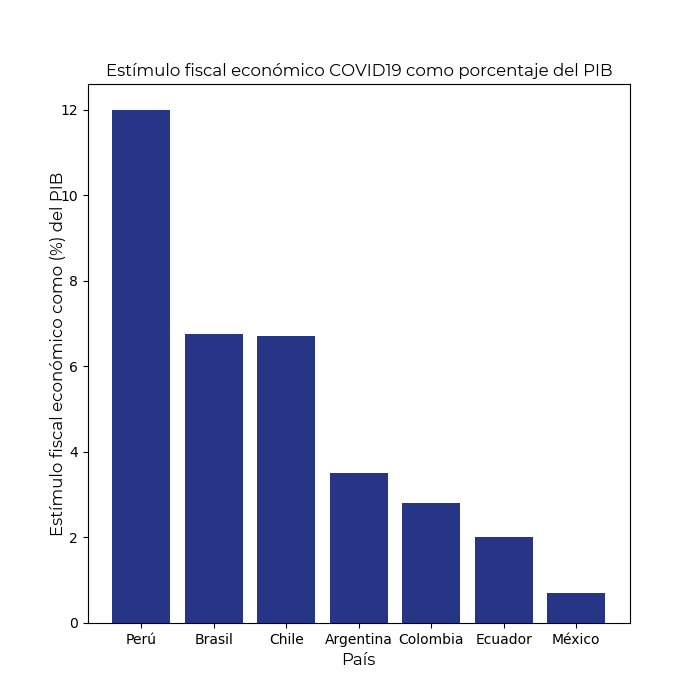
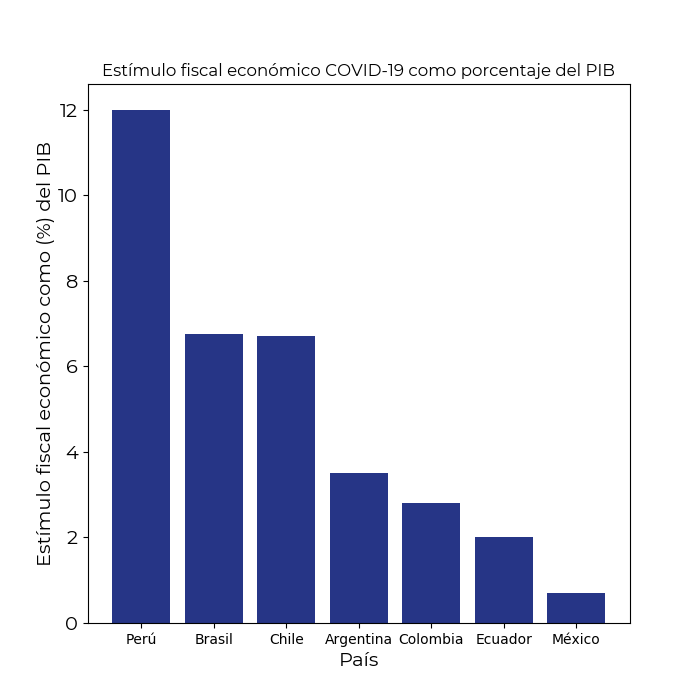
ok

diff --git a/herramientas/FiscalStimulusCOVID_to_GDP/barplotFiscalStimulus_to_GDP_LatAm.py b/herramientas/FiscalStimulusCOVID_to_GDP/barplotFiscalStimulus_to_GDP_LatAm.py
@@ -3,6 +3,8 @@ import matplotlib.pyplot as plt
 import pandas
 import os
 from matplotlib import font_manager as fm, rcParams
+
+
 fig = plt.figure(figsize=(7,7))
 ### Post colaboración Olivia Bordeu y Nacho Oliva.
 df = pandas.read_csv("asgdpPunto.csv",sep=";",encoding= 'unicode_escape')
@@ -29,17 +31,14 @@ plt.bar(y_pos, height,color=color_blue)
 
 # Create names on the x-axis
 plt.xticks(y_pos, bars)
-
-
+plt.yticks(fontproperties=prop,fontsize=14)
 
 plt.title('This is a special font: {}'.format(fname), fontproperties=prop)
 
-plt.ylabel('Estímulo fiscal económico como (%) del PIB', fontproperties=prop, fontsize=12, labelpad= -4)
-plt.xlabel('País', fontproperties=prop, fontsize=12)
+plt.ylabel('Estímulo fiscal económico como (%) del PIB', fontproperties=prop, fontsize=14, labelpad= 2)
+plt.xlabel('País', fontproperties=prop, fontsize=14)
 
-plt.title(r"Estímulo fiscal económico COVID19 como porcentaje del PIB",fontproperties=prop, fontsize=12)
- 
-
+plt.title(r"Estímulo fiscal económico COVID-19 como porcentaje del PIB",fontproperties=prop, fontsize=12)
 
 plt.savefig("outputFiscalStimulus.png")
 # Show graphic
@@ -54,12 +53,12 @@ height= GrossDebt
 plt.bar(y_pos, height,color=color_blue)
 # Create names on the x-axis
 plt.xticks(y_pos, bars)
-
+plt.yticks(fontproperties=prop,fontsize=14)
 
 plt.title('This is a special font: {}'.format(fname), fontproperties=prop)
 
-plt.ylabel('Deuda Bruta País como (%) del PIB', fontproperties=prop, fontsize=12, labelpad= -4)
-plt.xlabel('País', fontproperties=prop, fontsize=12)
+plt.ylabel('Deuda Bruta País como (%) del PIB', fontproperties=prop, fontsize=14, labelpad= 5)
+plt.xlabel('País', fontproperties=prop, fontsize=14)
 
 plt.title(r"Deuda Bruta como porcentaje del PIB",fontproperties=prop, fontsize=12)
 
@@ -84,13 +83,13 @@ y_pos = np.arange(len(bars))
 plt.bar(y_pos, height,color=color_blue)
 # Create names on the x-axis
 plt.xticks(y_pos, bars)
-plt.xticks(fontproperties=prop,rotation=48, fontsize= 6) 
+plt.xticks(rotation=90, fontsize= 10, fontproperties=prop) 
 plt.yticks(fontproperties=prop, fontsize= 12)
-
-
+#plt.tick_params(axis='x', which='major', pad=2)
+plt.subplots_adjust(bottom=0.15)
 plt.title('This is a special font: {}'.format(fname), fontproperties=prop)
 
-plt.ylabel('Estímulo fiscal económico como (%) del PIB', fontproperties=prop, fontsize=10, labelpad= -4)
+plt.ylabel('Estímulo fiscal económico como (%) del PIB', fontproperties=prop, fontsize=14, labelpad= 4)
 
 
 plt.title(r"Estímulo fiscal económico COVID19 como porcentaje del PIB G20",fontproperties=prop, fontsize=12)

diff --git a/herramientas/analisis_tests_PCR/analisis_test_PCR.py b/herramientas/analisis_tests_PCR/analisis_test_PCR.py
@@ -108,11 +108,6 @@ pobla1=pobla1[['nombre_region','pobla']]
 data=data.merge(pobla1, on='nombre_region')
 data.pobla=data.pobla.astype(int)
 
-
-
-
-
-
 ############################################################
 # Datos fallecidos por region
 path='../../COVID19_Chile_Regiones-fallecidos_totales.CSV'
